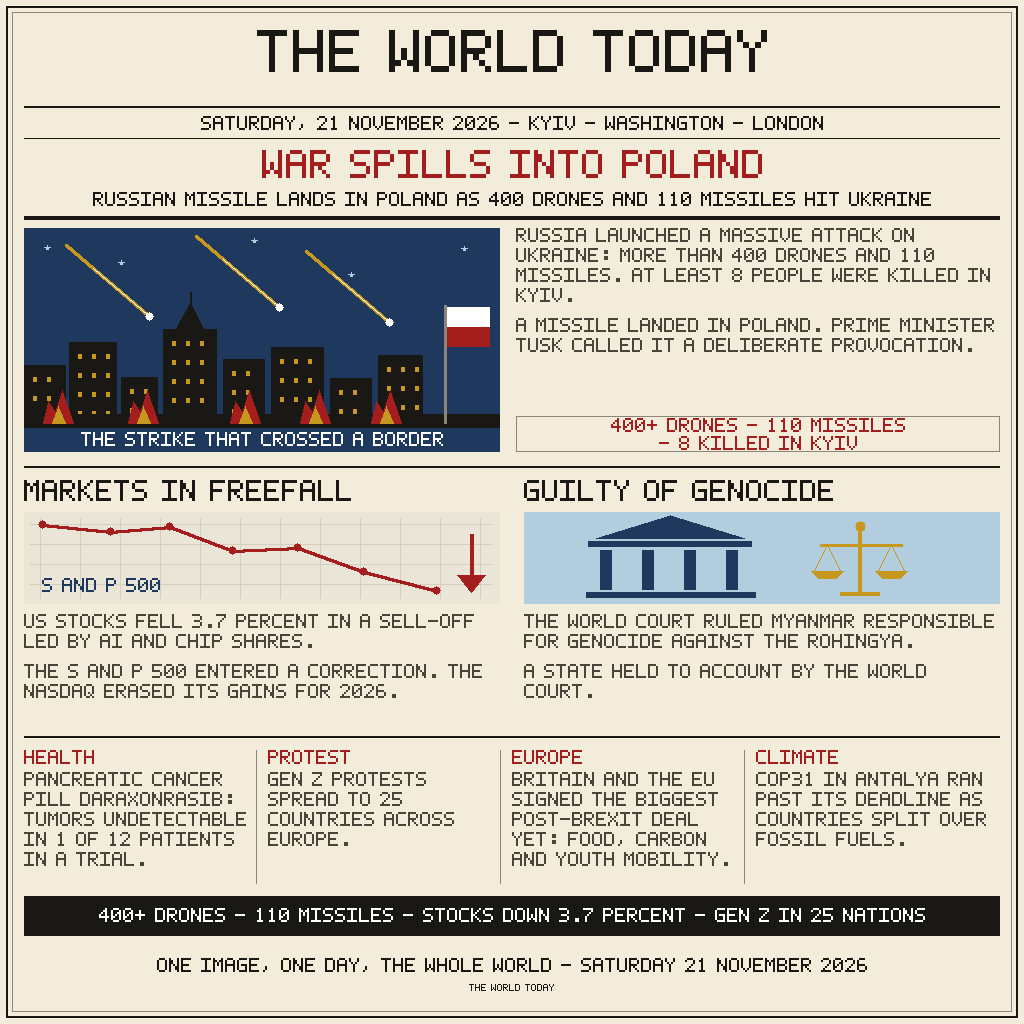
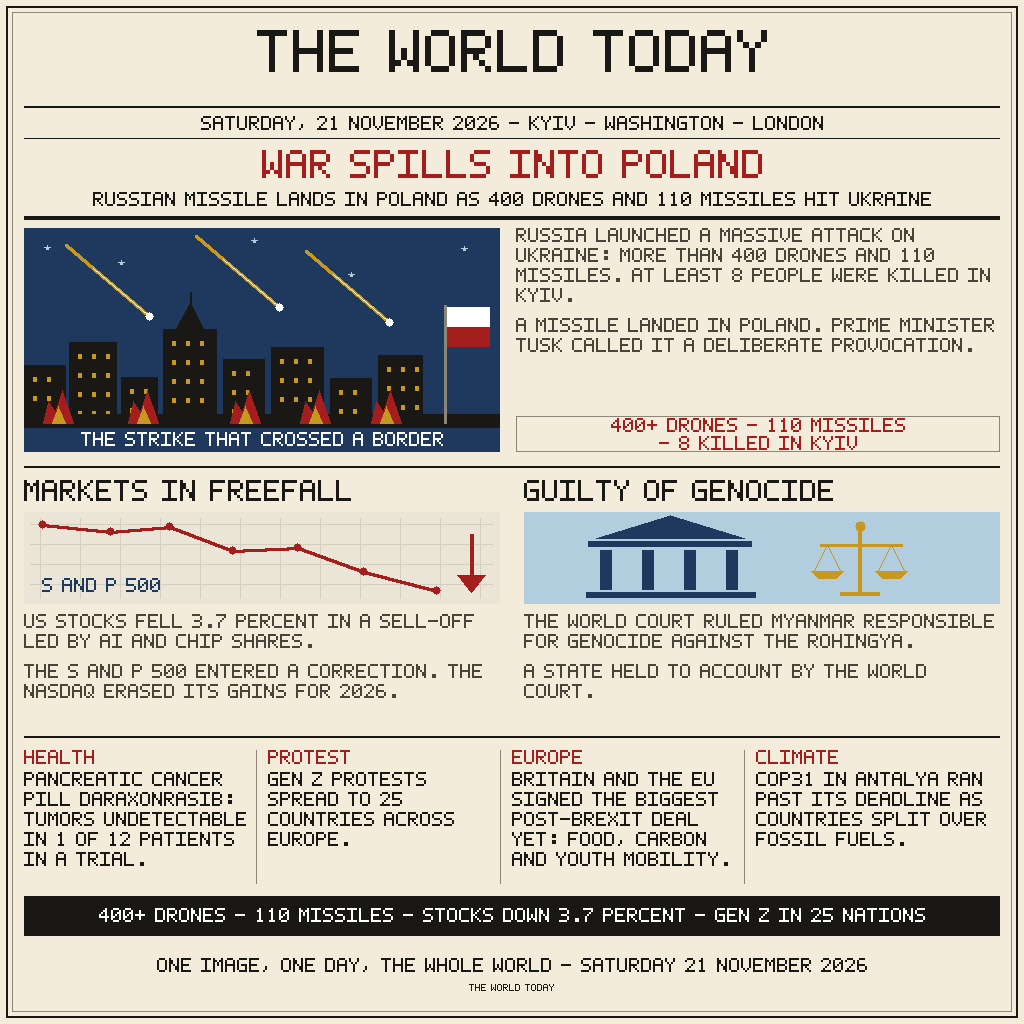
Improve brief text contrast: gray to black, re-verify determinism

Changed region(s): [[0.0312, 0.75, 0.4375, 0.8438], [0.75, 0.75, 0.9688, 0.8438], [0.5, 0.75, 0.6875, 0.8438]]

diff --git a/main.py b/main.py
@@ -255,7 +255,7 @@ def draw():
     for i,(title,body) in enumerate(briefs):
         x = 24+244*i
         text(title,x,750,2,RED)
-        paragraph(body,x,772,232,888)
+        paragraph(body,x,772,232,888,color=INK)
         if i:
             rect(x-12,750,1,134,RULE)
     rect(24,896,976,40,INK)
